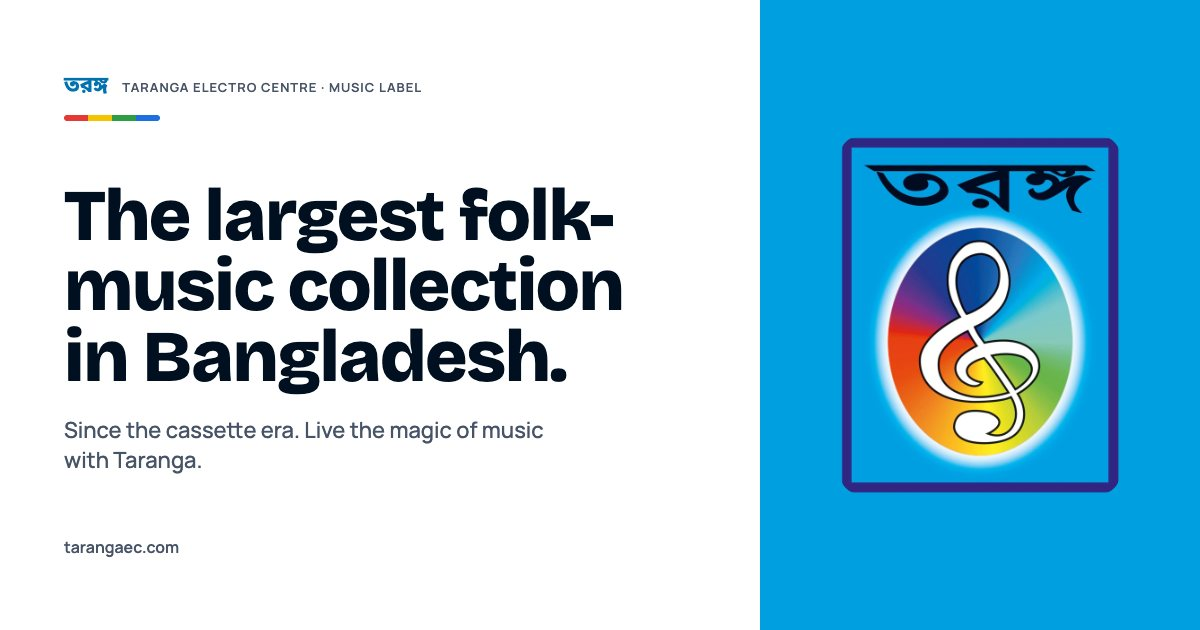
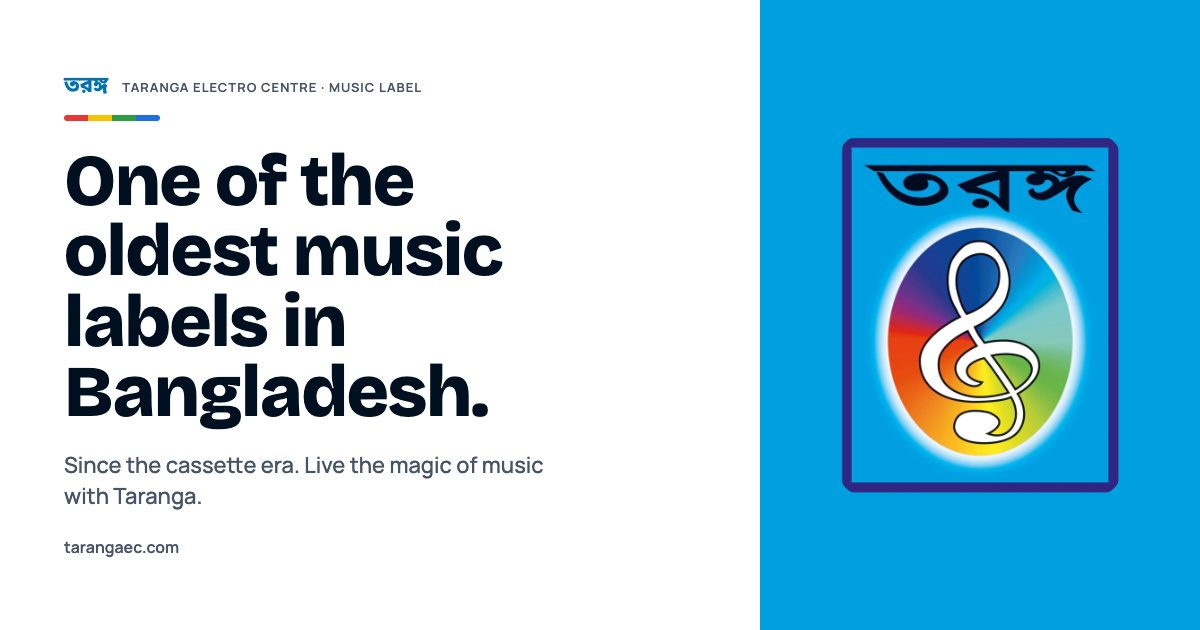
Content: honest positioning, YouTube channels, three contact inboxes, founder story
- Replace absolute "largest" / "#1" claims with "one of the largest and oldest"
- Add real YouTube channel per brand (Brands page, footer, Music, Contact)
- Contact page: A&R, publishing & sync, legal inboxes; Artists page uses ar@
- About/timeline/FAQ: Subrata Kumar Deb started the label in the CD/cassette era
- Regenerate og.jpg headline

Changed region(s): [[0.0308, 0.2413, 0.5242, 0.6937], [0.0308, 0.7238, 0.4625, 0.8143]]

diff --git a/src/data/site.ts b/src/data/site.ts
@@ -7,9 +7,16 @@ export const site = {
   domain: "https://tarangaec.com",
   tagline: "Live the magic of music with TARANGA.",
   description:
-    "Taranga Electro Centre is a Bangladeshi music label holding the largest folk-music collection in Bangladesh. Two decades in the music industry, from the cassette era to streaming.",
-  email: "info@tarangaec.com",
+    "Taranga Electro Centre is one of the oldest music labels in Bangladesh, with one of the largest folk-music catalogues in the country. Two decades in the music industry, from the cassette era to streaming.",
+  email: "contact@tarangaec.com",
+  founder: "Subrata Kumar Deb",
 };
+
+export const contacts = [
+  { label: "A&R", who: "Singers, music directors, lyricists", email: "ar@tarangaec.com" },
+  { label: "Publishing & sync", who: "TV, cable and commercial sync", email: "contact@tarangaec.com" },
+  { label: "Legal", who: "All legal matters", email: "legal@ansmusic.io" },
+];
 
 export const nav = [
   { label: "About", href: "/about" },
@@ -21,8 +28,8 @@ export const nav = [
 
 export const hero = {
   kicker: "Music label · Bangladesh · since the cassette era",
-  title: "The largest folk-music collection in Bangladesh.",
-  lead: "Taranga Electro Centre has been part of the music industry for two decades — from CDs and cassettes to every streaming platform. We believe in bringing the world closer together through music.",
+  title: "One of the oldest music labels in Bangladesh.",
+  lead: "Taranga Electro Centre has been part of the music industry for two decades — from cassettes and CDs to every streaming platform — and holds one of the largest folk-music catalogues in the country. We believe in bringing the world closer together through music.",
   primary: { label: "Explore the catalogue", href: "/music" },
   secondary: { label: "Submit your music", href: "/artists" },
 };
@@ -30,7 +37,7 @@ export const hero = {
 export const stats = [
   { value: 20, suffix: "+", label: "Years in music" },
   { value: 5, label: "Brands under Taranga" },
-  { label: "Largest folk catalogue in Bangladesh", text: "#1" },
+  { value: 6, label: "YouTube channels" },
   { label: "From cassette to streaming", text: "1990s" },
 ];
 
@@ -38,7 +45,7 @@ export const whatWeDo = {
   title: "A label built on folk, grown into everything.",
   sub: "Taranga started with folk music and became an integral part of entertainment in rural Bangladesh. Today the group releases music, video and drama under five brands.",
   items: [
-    { title: "Folk music", text: "The largest folk collection in Bangladesh: songs, artists and traditions from every region, preserved and released." },
+    { title: "Folk music", text: "One of the largest folk catalogues in Bangladesh: songs, artists and traditions from every region, preserved and released." },
     { title: "Music releases", text: "New singles and albums released to streaming platforms and video channels under the Taranga labels." },
     { title: "Video & drama", text: "Music videos, drama and entertainment content produced and published under Bangla Drama and the entertainment brands." },
     { title: "Artist partnerships", text: "Working with artists and composers on releases, rights and reach — from first recording to global platforms." },
@@ -48,24 +55,25 @@ export const whatWeDo = {
 export const genres = ["Folk", "Baul", "Bhatiali", "Bhawaiya", "Lalon", "Modern", "Film", "Devotional", "Drama"];
 
 export const brands = [
-  { slug: "taranga-electro-centre", name: "Taranga Electro Centre", role: "Parent label", text: "The founding label and home of the folk catalogue. Every Taranga brand sits under it.", logo: "/brand/taranga.png", accent: "#00a0e0" },
-  { slug: "taranga-music-centre", name: "Taranga Music Centre", role: "Music label · TMC", text: "Music releases and recordings under the TMC name.", logo: "/brand/tmc.png", accent: "#e01020" },
-  { slug: "taranga-music", name: "Taranga Music", role: "Music channel", text: "The music brand for releases and video channels.", accent: "#302080" },
-  { slug: "taranga-entertainment", name: "Taranga Entertainment", role: "Entertainment", text: "Entertainment programming and video content.", accent: "#f0a000" },
-  { slug: "bangla-entertainment", name: "Bangla Entertainment", role: "Entertainment", text: "Bengali entertainment content for a wide audience.", accent: "#10a060" },
-  { slug: "bangla-drama", name: "Bangla Drama", role: "Drama", text: "Bengali drama productions and series.", accent: "#c02080" },
+  { slug: "taranga-electro-centre", name: "Taranga Electro Centre", role: "Parent label", text: "The founding label and home of the folk catalogue. Every Taranga brand sits under it.", logo: "/brand/taranga.png", accent: "#00a0e0", youtube: "https://www.youtube.com/@TarangaElectroCentre" },
+  { slug: "taranga-music-centre", name: "Taranga Music Centre", role: "Music label · TMC", text: "Music releases and recordings under the TMC name.", logo: "/brand/tmc.png", accent: "#e01020", youtube: "https://www.youtube.com/@tarangamusiccenter" },
+  { slug: "taranga-music", name: "Taranga Music", role: "Music channel", text: "The music brand for releases and video channels.", accent: "#302080", youtube: "https://www.youtube.com/@TarangaMusic" },
+  { slug: "taranga-entertainment", name: "Taranga Entertainment", role: "Entertainment", text: "Entertainment programming and video content.", accent: "#f0a000", youtube: "https://www.youtube.com/@TarangaEntertainment" },
+  { slug: "bangla-entertainment", name: "Bangla Entertainment", role: "Entertainment", text: "Bengali entertainment content for a wide audience.", accent: "#10a060", youtube: "https://www.youtube.com/@BanglaEntertainmentNow" },
+  { slug: "bangla-drama", name: "Bangla Drama", role: "Drama", text: "Bengali drama productions and series.", accent: "#c02080", youtube: "https://www.youtube.com/@bangladrama3400" },
 ];
 
 export const timeline = [
-  { when: "1990s", title: "The cassette era", text: "Taranga Electro Centre begins releasing music on cassette and CD, building a folk catalogue from the ground up." },
+  { when: "1990s", title: "The cassette era", text: "Subrata Kumar Deb starts Taranga Electro Centre in the days of cassettes and CDs. There was no online music then; Taranga released CDs and built a folk catalogue from the ground up." },
   { when: "2000s", title: "Rural Bangladesh", text: "Taranga becomes an integral part of the entertainment business in rural Bangladesh." },
   { when: "2010s", title: "Digital", text: "The catalogue moves to video channels and streaming platforms; new brands for music, entertainment and drama." },
-  { when: "Today", title: "Two decades on", text: "The largest folk-music collection in Bangladesh, released to the world under five Taranga brands." },
+  { when: "Today", title: "Two decades on", text: "One of the oldest labels in Bangladesh with one of its largest folk catalogues, released to the world under five Taranga brands and six YouTube channels." },
 ];
 
 export const artists = {
   title: "Release your music with Taranga.",
   sub: "We work with folk and modern artists, composers and producers. Send us your music and we'll get back to you.",
+  email: "ar@tarangaec.com",
   steps: [
     ["Send", "Email a link to your music (private YouTube, Drive or SoundCloud) with a short note about you."],
     ["Listen", "Our team listens to every submission and replies with next steps."],
@@ -77,13 +85,16 @@ export const artists = {
 export const faq = [
   { q: "What kind of music does Taranga release?", a: "Folk first — Baul, Bhatiali, Bhawaiya, Lalon and regional traditions — alongside modern, film and devotional music, plus drama and entertainment video." },
   { q: "How do I submit my music?", a: "Email us links to your songs and a short note. We listen to everything and reply with next steps." },
-  { q: "Where can I listen to Taranga releases?", a: "On the major streaming platforms and on the Taranga video channels. The Music page links to them." },
+  { q: "Where can I listen to Taranga releases?", a: "On the six Taranga YouTube channels and the major streaming platforms. The Music and Brands pages link to them." },
   { q: "Is Taranga only for folk artists?", a: "No. Folk is our heritage and our largest catalogue, but we release modern, film and devotional music too." },
-  { q: "How long has Taranga been around?", a: "Since the cassette era, before 2000 — more than two decades in the music industry." },
+  { q: "How long has Taranga been around?", a: "Since the cassette era, before 2000 — Subrata Kumar Deb started the label when music was released on CD and there was no online distribution. More than two decades later, it is one of the oldest labels in Bangladesh." },
 ];
 
 export const socials = [
-  { label: "YouTube", href: "#" },
-  { label: "Facebook", href: "#" },
-  { label: "Spotify", href: "#" },
+  { label: "Taranga Electro Centre", href: "https://www.youtube.com/@TarangaElectroCentre" },
+  { label: "Taranga Music Centre", href: "https://www.youtube.com/@tarangamusiccenter" },
+  { label: "Taranga Music", href: "https://www.youtube.com/@TarangaMusic" },
+  { label: "Taranga Entertainment", href: "https://www.youtube.com/@TarangaEntertainment" },
+  { label: "Bangla Entertainment", href: "https://www.youtube.com/@BanglaEntertainmentNow" },
+  { label: "Bangla Drama", href: "https://www.youtube.com/@bangladrama3400" },
 ];

diff --git a/src/app/contact/page.tsx b/src/app/contact/page.tsx
@@ -1,27 +1,32 @@
 import type { Metadata } from "next";
-import { site, socials } from "@/data/site";
-import { ArrowUpRight, PageHead, Reveal } from "@/components/site/shared";
+import { contacts, site, socials } from "@/data/site";
+import { ArrowUpRight, PageHead, Reveal, SPECTRUM } from "@/components/site/shared";
+import { cn } from "@/lib/utils";
 
-export const metadata: Metadata = { title: "Contact", description: `Get in touch with ${site.name}.` };
+export const metadata: Metadata = { title: "Contact", description: `Get in touch with ${site.name}: A&R, publishing and sync, legal.` };
 
 export default function Contact() {
   return (
     <>
-      <PageHead label="Contact" title="Get in touch." sub="For releases, partnerships, licensing or press — email us and we'll reply within a few business days." />
-      <div className="container-x grid gap-4 pb-20 md:grid-cols-12 md:pb-28">
-        <Reveal className="rounded-[24px] bg-sky p-8 md:col-span-7 md:p-10">
-          <p className="label text-ink/70">Write to</p>
-          <a href={`mailto:${site.email}`} className="mt-3 block break-all font-heading text-[clamp(26px,3.4vw,44px)] leading-tight font-extrabold tracking-[-0.02em] text-ink hover:underline">
-            {site.email}
-          </a>
-          <a href={`mailto:${site.email}`} className="btn-primary mt-8">
-            Email us
-            <ArrowUpRight className="size-4" />
-          </a>
-        </Reveal>
-        <Reveal delay={0.06} className="card p-8 md:col-span-5 md:p-10">
-          <p className="label">Follow</p>
-          <ul className="mt-4 space-y-3">
+      <PageHead label="Contact" title="Please contact the following for your requirements." sub="Three inboxes, one team. Pick the one that fits and we'll reply within a few business days." />
+      <div className="container-x grid gap-4 pb-20 md:grid-cols-3 md:pb-28">
+        {contacts.map((c, i) => (
+          <Reveal key={c.email} delay={i * 0.06} className={cn("flex flex-col rounded-[24px] p-8 md:p-9", i === 0 ? "bg-sky text-ink" : "card")}>
+            <span className={cn("size-3 rounded-full", i === 0 ? "bg-ink" : SPECTRUM[i])} aria-hidden />
+            <p className={cn("label mt-6", i === 0 && "text-ink/70")}>{c.label}</p>
+            <h2 className="text-h3 mt-2">{c.who}</h2>
+            <a href={`mailto:${c.email}`} className="mt-8 block break-all font-heading text-[clamp(20px,1.7vw,24px)] leading-tight font-extrabold tracking-[-0.02em] hover:underline">
+              {c.email}
+            </a>
+            <a href={`mailto:${c.email}`} className={cn("mt-6 w-fit", i === 0 ? "btn-primary" : "btn-ghost")}>
+              Email
+              <ArrowUpRight className="size-4" />
+            </a>
+          </Reveal>
+        ))}
+        <Reveal delay={0.2} className="card p-8 md:col-span-3 md:p-10">
+          <p className="label">Watch &amp; follow · YouTube</p>
+          <ul className="mt-5 grid gap-x-8 gap-y-3 sm:grid-cols-2 lg:grid-cols-3">
             {socials.map((s) => (
               <li key={s.label}>
                 <a href={s.href} target="_blank" rel="noopener noreferrer" className="group inline-flex items-center gap-2 text-[17px] font-semibold hover:text-sky-ink">

diff --git a/src/components/site/footer.tsx b/src/components/site/footer.tsx
@@ -1,6 +1,7 @@
 import Link from "next/link";
+import { Play } from "lucide-react";
 
-import { brands, nav, site, socials } from "@/data/site";
+import { brands, contacts, nav, site } from "@/data/site";
 import { SpectrumRule } from "./shared";
 
 export function Footer() {
@@ -9,7 +10,7 @@ export function Footer() {
       <div className="container-x py-16">
         <SpectrumRule className="w-full" height={4} />
         <div className="mt-12 grid gap-10 md:grid-cols-12">
-          <div className="md:col-span-5">
+          <div className="md:col-span-4">
             <p className="font-bengali text-[clamp(56px,7vw,96px)] leading-none font-bold">{site.bengali}</p>
             <p className="mt-4 max-w-sm text-[15px] text-white/75">{site.description}</p>
           </div>
@@ -29,24 +30,25 @@ export function Footer() {
             <p className="label mb-4 text-white/60">Brands</p>
             <ul className="space-y-2.5 text-[15px] text-white/85">
               {brands.map((b) => (
-                <li key={b.slug}>
+                <li key={b.slug} className="flex items-center gap-2">
                   <Link href={`/brands#${b.slug}`} className="hover:text-white">
                     {b.name}
                   </Link>
+                  <a href={b.youtube} target="_blank" rel="noopener noreferrer" aria-label={`${b.name} on YouTube`} className="text-white/50 hover:text-white">
+                    <Play className="size-3.5 fill-current" strokeWidth={1.75} />
+                  </a>
                 </li>
               ))}
             </ul>
           </div>
-          <div className="md:col-span-2">
+          <div className="md:col-span-3">
             <p className="label mb-4 text-white/60">Contact</p>
-            <a href={`mailto:${site.email}`} className="text-[15px] text-white hover:underline">
-              {site.email}
-            </a>
-            <ul className="mt-4 space-y-2 text-[15px] text-white/85">
-              {socials.map((s) => (
-                <li key={s.label}>
-                  <a href={s.href} target="_blank" rel="noopener noreferrer" className="hover:text-white">
-                    {s.label}
+            <ul className="space-y-3 text-[15px]">
+              {contacts.map((c) => (
+                <li key={c.email}>
+                  <span className="block text-[12px] text-white/55">{c.label}</span>
+                  <a href={`mailto:${c.email}`} className="break-all text-white/90 hover:text-white hover:underline">
+                    {c.email}
                   </a>
                 </li>
               ))}

diff --git a/src/app/music/page.tsx b/src/app/music/page.tsx
@@ -2,12 +2,12 @@ import type { Metadata } from "next";
 import { genres, socials } from "@/data/site";
 import { ArrowUpRight, CoverTile, PageHead, Reveal, SPECTRUM, Section } from "@/components/site/shared";
 
-export const metadata: Metadata = { title: "Music", description: "The Taranga catalogue: the largest folk-music collection in Bangladesh, plus modern, film and devotional music." };
+export const metadata: Metadata = { title: "Music", description: "The Taranga catalogue: one of the largest folk-music collections in Bangladesh, plus modern, film and devotional music." };
 
 export default function Music() {
   return (
     <>
-      <PageHead label="Catalogue" title="The largest folk-music collection in Bangladesh." sub="Songs, artists and traditions from every region — preserved and released to the world. Browse by genre, then listen on your platform." />
+      <PageHead label="Catalogue" title="One of the largest folk-music collections in Bangladesh." sub="Songs, artists and traditions from every region — preserved and released to the world. Browse by genre, then listen on your platform." />
       <div className="container-x">
         <Reveal>
           <ul className="flex flex-wrap gap-2">
@@ -19,7 +19,7 @@ export default function Music() {
           </ul>
         </Reveal>
       </div>
-      <Section label="Genres" title="Folk, first and largest.">
+      <Section label="Genres" title="Folk first. Then everything else.">
         <div className="mt-12 grid grid-cols-2 gap-4 md:grid-cols-3 lg:grid-cols-4">
           <Reveal className="col-span-2 row-span-2">
             <CoverTile title="Folk" sub="Baul · Bhatiali · Bhawaiya · Lalon" colorClass="bg-sky" large className="h-full" />
@@ -31,8 +31,8 @@ export default function Music() {
           ))}
         </div>
       </Section>
-      <Section label="Listen" title="On every platform." tone="surface" className="pb-20 md:pb-28">
-        <div className="mt-10 grid gap-4 sm:grid-cols-3">
+      <Section label="Watch" title="Six channels on YouTube." tone="surface" className="pb-20 md:pb-28">
+        <div className="mt-10 grid gap-4 sm:grid-cols-2 lg:grid-cols-3">
           {socials.map((s, i) => (
             <Reveal key={s.label} delay={i * 0.05}>
               <a href={s.href} target="_blank" rel="noopener noreferrer" className="card card-hover group flex items-center justify-between p-6">

diff --git a/src/app/artists/page.tsx b/src/app/artists/page.tsx
@@ -1,6 +1,6 @@
 import type { Metadata } from "next";
 import { Check } from "lucide-react";
-import { artists, faq, site } from "@/data/site";
+import { artists, faq } from "@/data/site";
 import { ArrowUpRight, PageHead, Reveal, Section } from "@/components/site/shared";
 import { Faq } from "@/components/site/faq";
 
@@ -11,7 +11,7 @@ export default function Artists() {
     <>
       <PageHead label="For artists" title={artists.title} sub={artists.sub}>
         <Reveal delay={0.1}>
-          <a href={`mailto:${site.email}?subject=Music%20submission`} className="btn-primary mt-8">
+          <a href={`mailto:${artists.email}?subject=Music%20submission`} className="btn-primary mt-8">
             Email your music
             <ArrowUpRight className="size-4" />
           </a>
@@ -43,9 +43,9 @@ export default function Artists() {
             </ul>
           </Reveal>
           <Reveal delay={0.06} className="rounded-[24px] bg-sky p-7 text-ink md:col-span-5 md:p-9">
-            <p className="label text-ink/70">Send to</p>
-            <a href={`mailto:${site.email}?subject=Music%20submission`} className="mt-2 block break-all font-heading text-[clamp(22px,2.2vw,30px)] font-extrabold tracking-[-0.02em] hover:underline">
-              {site.email}
+            <p className="label text-ink/70">A&amp;R · singers, music directors, lyricists</p>
+            <a href={`mailto:${artists.email}?subject=Music%20submission`} className="mt-2 block break-all font-heading text-[clamp(22px,2.2vw,30px)] font-extrabold tracking-[-0.02em] hover:underline">
+              {artists.email}
             </a>
             <p className="mt-4 text-[14px] text-ink/75">We listen to every submission and reply with next steps.</p>
           </Reveal>

diff --git a/src/components/site/home.tsx b/src/components/site/home.tsx
@@ -127,7 +127,7 @@ export function Catalogue() {
       id="catalogue"
       label="Catalogue"
       title="Folk first. Then everything else."
-      sub="Regional traditions preserved and released — from the largest folk collection in Bangladesh to modern, film and devotional music."
+      sub="Regional traditions preserved and released — from one of the largest folk collections in Bangladesh to modern, film and devotional music."
       action={
         <Link href="/music" className="group inline-flex items-center gap-1.5 text-[15px] font-semibold">
           Browse the catalogue
@@ -141,7 +141,7 @@ export function Catalogue() {
           expandedHeight={320}
           items={rows.map((g, i) => ({
             label: g,
-            sublabel: i === 0 ? "Largest collection" : "Genre",
+            sublabel: i === 0 ? "Our heritage" : "Genre",
             image: `/covers/${g.toLowerCase()}.svg`,
             imageAlt: `${g} artwork`,
             description: i === 0 ? "Baul, Bhatiali, Bhawaiya, Lalon and more" : undefined,
@@ -150,7 +150,7 @@ export function Catalogue() {
       </Reveal>
       <div className="mt-10 grid grid-cols-2 gap-3 md:hidden">
         {rows.map((g, i) => (
-          <CoverTile key={g} title={g} sub={i === 0 ? "Largest collection" : undefined} colorClass={i === 0 ? "bg-sky" : SPECTRUM[i % 4]} />
+          <CoverTile key={g} title={g} sub={i === 0 ? "Our heritage" : undefined} colorClass={i === 0 ? "bg-sky" : SPECTRUM[i % 4]} />
         ))}
       </div>
     </Section>

diff --git a/src/app/about/page.tsx b/src/app/about/page.tsx
@@ -18,7 +18,7 @@ export default function About() {
             <h2 className="text-h2">We believe in bringing the world closer together through music.</h2>
           </Reveal>
           <Reveal delay={0.05} className="space-y-5 text-[17px] text-ink-muted md:col-span-7">
-            <p>Taranga Electro Centre is a music label that holds the largest folk-music collection in Bangladesh. The label began before 2000, in the CD and cassette era, and has been part of the music industry for the two decades since.</p>
+            <p>Taranga Electro Centre was started by Subrata Kumar Deb in the days of CDs and cassettes, before 2000. There was no online music then: Taranga recorded folk artists and released their songs on CD, one album at a time. That catalogue grew into one of the largest folk-music collections in Bangladesh, and the label into one of the oldest still running.</p>
             <p>Over those years Taranga became an integral part of the entertainment business in rural Bangladesh. Today the group releases music, video and drama under five brands, reaching listeners on every major platform.</p>
             <p>So, to all the music lovers who believe in the magic of music: come join us, and live the magic of music with Taranga.</p>
           </Reveal>

diff --git a/src/app/brands/page.tsx b/src/app/brands/page.tsx
@@ -1,7 +1,7 @@
 import type { Metadata } from "next";
 import Image from "next/image";
 import { brands } from "@/data/site";
-import { PageHead, Reveal } from "@/components/site/shared";
+import { ArrowUpRight, PageHead, Reveal } from "@/components/site/shared";
 
 export const metadata: Metadata = { title: "Brands", description: "Taranga Electro Centre and its five brands: Taranga Music Centre, Taranga Music, Taranga Entertainment, Bangla Entertainment and Bangla Drama." };
 
@@ -20,6 +20,10 @@ export default function Brands() {
                 <span className="label">{b.role}</span>
                 <h2 className="text-h2 mt-3">{b.name}</h2>
                 <p className="mt-4 max-w-[60ch] text-[17px] text-ink-muted">{b.text}</p>
+                <a href={b.youtube} target="_blank" rel="noopener noreferrer" className="btn-ghost btn-sm mt-7">
+                  Watch on YouTube
+                  <ArrowUpRight className="size-4" />
+                </a>
               </div>
             </article>
           </Reveal>

diff --git a/src/app/page.tsx b/src/app/page.tsx
@@ -5,7 +5,7 @@ export default function Home() {
   return (
     <>
       <Hero />
-      <Marquee items={["Since the cassette era", "CD · Cassette · Digital", "Folk · Baul · Bhatiali · Modern", "Largest folk collection in Bangladesh", "Live the magic of music"]} />
+      <Marquee items={["Since the cassette era", "CD · Cassette · Digital", "Folk · Baul · Bhatiali · Modern", "One of the oldest labels in Bangladesh", "Live the magic of music"]} />
       <Stats />
       <WhatWeDo />
       <Catalogue />
